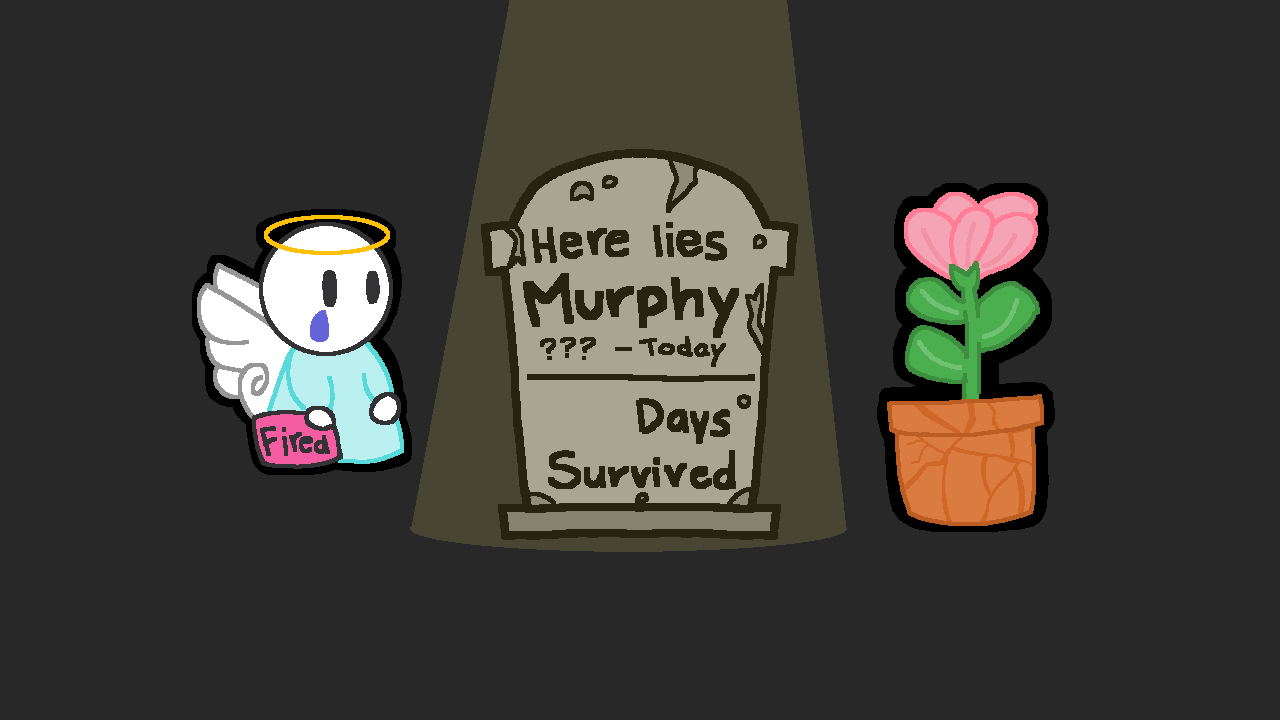
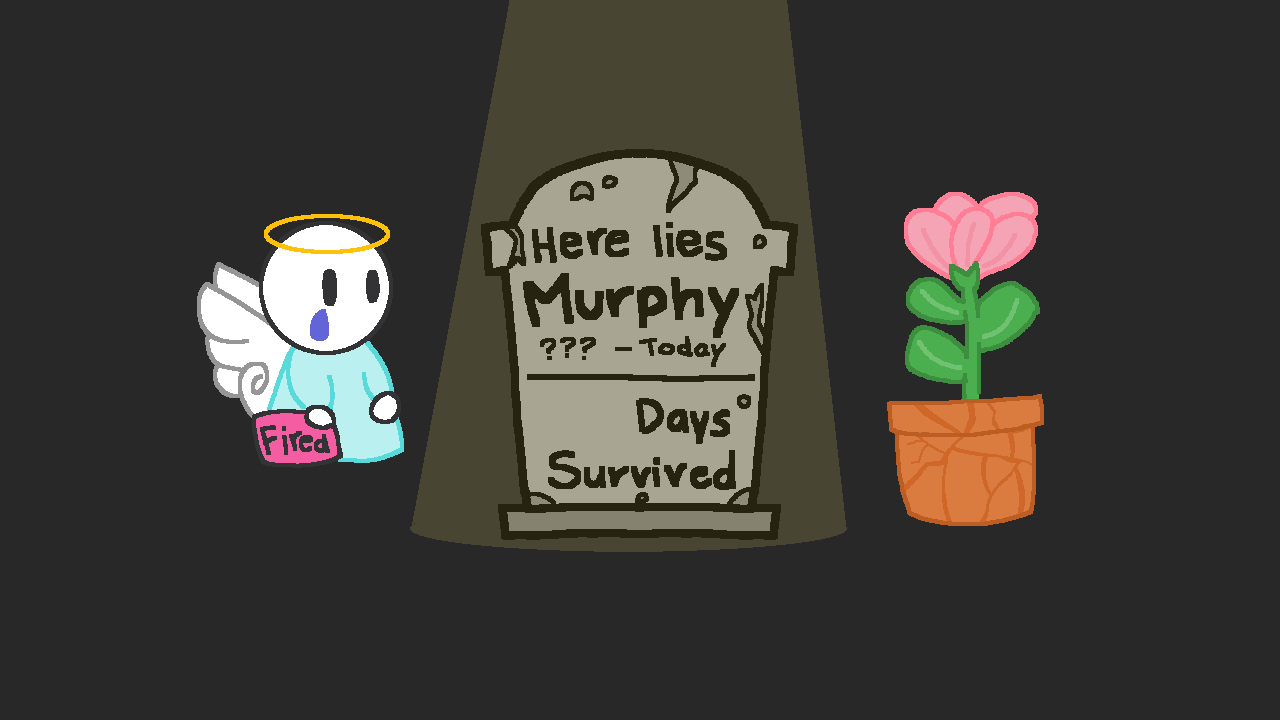
add flower pot animations

diff --git a/src/scenes/Play.js b/src/scenes/Play.js
@@ -6,11 +6,13 @@ class Play extends Phaser.Scene{
     preload(){
         // load images
         this.load.image("platform", "./assets/platform.png");
-        this.load.image("pot", "./assets/flowerPot.png");
+        // this.load.image("pot", "./assets/flowerPot.png");
 
-        // this.load.spritesheet('player', './assets/player.png', {frameWidth: 50, frameHeight: 120, startFrame: 0, endFrame: 7});
+        // load spritesheets
         this.load.atlas('player_atlas', './assets/player.png', './assets/player.json');
         this.load.spritesheet('angel', './assets/angel.png', {frameWidth: 64, frameHeight: 64, startFrame: 0, endFrame: 1});
+        this.load.spritesheet('poof', './assets/potPoof.png', {frameWidth: 76, frameHeight: 140, startFrame: 0, endFrame: 6});
+        this.load.spritesheet('pot', './assets/pot.png', {frameWidth: 64, frameHeight: 128, startFrame: 0, endFrame: 8});
     }
     create(){
         // variable for game over state
@@ -66,6 +68,17 @@ class Play extends Phaser.Scene{
                 this.pointerY = pointer.y;
         });
 
+        // adding flower pot animations
+        this.anims.create({
+            key: 'poof',
+            frames: this.anims.generateFrameNumbers('poof', { start: 0, end: 6, first: 0}),
+            frameRate: 15
+        });
+        this.anims.create({
+            key: 'destroy',
+            frames: this.anims.generateFrameNumbers('pot', { start: 0, end: 8, first: 0}),
+            frameRate: 15
+        });
 
         // setting collisions between the player and the platform group
         this.physics.add.collider(this.player, this.platformGroup);
@@ -119,7 +132,6 @@ class Play extends Phaser.Scene{
 
         // game over
         if(gameOver){
-            this.sound.play('gameOver');
             this.backgroundMusic.stop();
             this.scene.start('GameOver');
         }
@@ -147,16 +159,41 @@ class Play extends Phaser.Scene{
     // function for clicking a flower pot
     clickPot(pot, pointer){
         this.sound.play('clickPot');
-        pot.destroy();
 
         this.physics.moveToObject(this.angel, pointer, 550);
         this.pointerX = pointer.x;
         this.pointerY = pointer.y;
+
+
+        pot.destroy();
+
+        // create poof sprite at pot's position
+        let poof = this.add.sprite(pot.x, pot.y, 'poof').setOrigin(0, 0);
+        // play explode animation
+        poof.anims.play('poof');
+        // callback after anim completes            
+        poof.on('animationcomplete', () => { 
+            // remove explosion sprite                    
+           poof.destroy();      
+           this.clock.paused = false;             
+        });
     }
 
     // function for player collision with flower pot
-    hitPot(){
-        gameOver = true;
+    hitPot(pot){
+            this.clock.paused = true;
+            pot.body.stop();
+            pot.body.allowGravity = false;
+            if (!pot.anims.isPlaying) {
+                pot.play("destroy");
+            }
+    
+            this.player.anims.stop();
+    
+            pot.on('animationcomplete', () => {       
+                this.sound.play('gameOver');           
+                gameOver = true;                      
+            });
     }
 
     // function for randomly spawning the pots
@@ -170,9 +207,9 @@ class Play extends Phaser.Scene{
         
         if((this.timer - this.lastSpawnTime1) == this.spawnRate1){
             this.pot1 = new FlowerPot(this, 500, 0, 'pot', 0).setOrigin(0,0);
+            this.physics.add.overlap(this.player, this.pot1, ()=> {this.hitPot(this.pot1)});
             //checking for input
             this.pot1.on('pointerdown', (pointer)=> {this.clickPot(this.pot1, pointer)});
-            this.physics.add.overlap(this.player, this.pot1, this.hitPot);
             this.pot1.setGravityY(250);
             this.pot1.setVelocityX(-175);
             this.pot1.setInteractive();
@@ -194,7 +231,7 @@ class Play extends Phaser.Scene{
             this.pot2 = new FlowerPot(this, 800, 0, 'pot', 0).setOrigin(0,0);
             //checking for input
             this.pot2.on('pointerdown', (pointer)=> {this.clickPot(this.pot2, pointer)});
-            this.physics.add.overlap(this.player, this.pot2, this.hitPot);
+            this.physics.add.overlap(this.player, this.pot2, () => {this.hitPot(this.pot2)});
             this.pot2.setGravityY(200);
             this.pot2.setVelocityX(-300);
             this.pot2.setInteractive();
@@ -214,7 +251,7 @@ class Play extends Phaser.Scene{
             this.pot3 = new FlowerPot(this, 1200, 0, 'pot', 0).setOrigin(0,0);
             //checking for input
             this.pot3.on('pointerdown', (pointer)=> {this.clickPot(this.pot3, pointer)});
-            this.physics.add.overlap(this.player, this.pot3, this.hitPot);
+            this.physics.add.overlap(this.player, this.pot3, () => {this.hitPot(this.pot3)});
             this.pot3.setGravityY(200);
             this.pot3.setVelocityX(-500);
             this.pot3.setInteractive();
